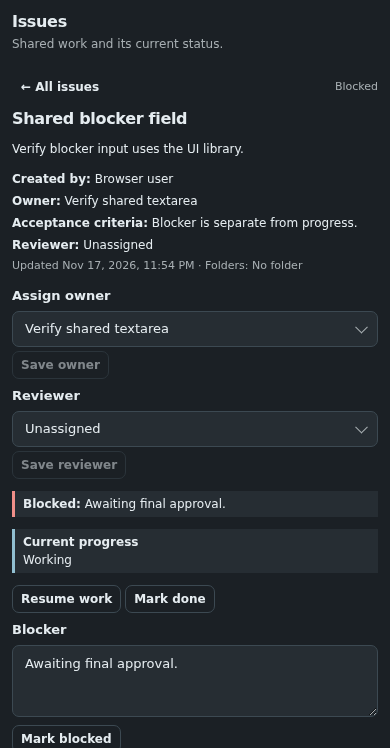
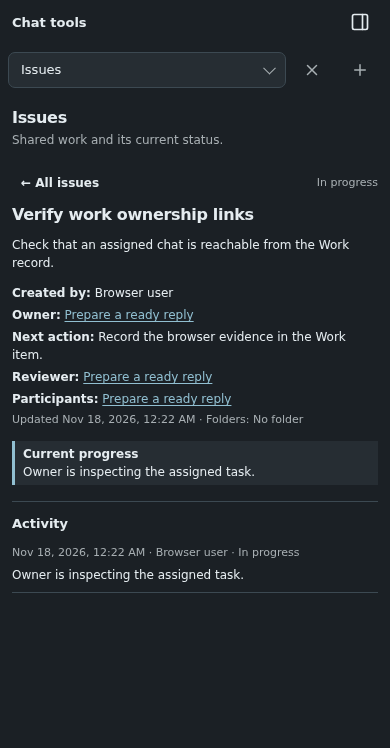
Show linked work chats and track next actions

diff --git a/web/src/components/mux-chat-coordination.ts b/web/src/components/mux-chat-coordination.ts
@@ -4,12 +4,10 @@ import { apiPath } from '../lib/base-path.js';
 import { remoteChatPath } from '../lib/remote-chat-routes.js';
 import { sdkChats } from '../lib/sdk-chats.js';
 import '../ui/button.js';
-import { MuxUISelect } from '../ui/select.js';
-import { MuxUITextArea } from '../ui/text-area.js';
 
 type WorkActor = { kind:'chat' | 'human' | 'external-tool'; sessionId?:string };
-type WorkUpdate = { id:string; at:string; actor?:WorkActor; sessionId?:string; linkedSessionId?:string; text:string; status?:string; progress?:string; outcome?:string; evidence?:string[]; ownerSessionId?:string; reviewerSessionId?:string; blockedReason?:string };
-type WorkItem = { id:string; title:string; brief:string; status:string; progress?:string; outcome?:string; createdBy:WorkActor; ownerSessionId:string; reviewerSessionId?:string; acceptanceCriteria?:string; blockedReason?:string; revision:number; sessionIds:string[]; projectIds:string[]; updatedAt:string; updates?:WorkUpdate[] };
+type WorkUpdate = { id:string; at:string; actor?:WorkActor; sessionId?:string; linkedSessionId?:string; text:string; status?:string; progress?:string; nextAction?:string; outcome?:string; evidence?:string[]; ownerSessionId?:string; reviewerSessionId?:string; blockedReason?:string };
+type WorkItem = { id:string; title:string; brief:string; status:string; progress?:string; nextAction?:string; outcome?:string; createdBy:WorkActor; ownerSessionId:string; reviewerSessionId?:string; acceptanceCriteria?:string; blockedReason?:string; revision:number; sessionIds:string[]; projectIds:string[]; updatedAt:string; updates?:WorkUpdate[] };
 
 @customElement('mux-chat-coordination')
 export class MuxChatCoordination extends LitElement {
@@ -21,10 +19,6 @@ export class MuxChatCoordination extends LitElement {
   @state() private filter: 'open' | 'all' | 'done' = 'open';
   @state() private scope: 'folder' | 'all' = 'folder';
   @state() private error = '';
-  @state() private ownerDraft = '';
-  @state() private reviewerDraft = '';
-  @state() private blockerDraft = '';
-  @state() private saving = false;
   private poll?: number;
   private loading = false;
   private refreshKey = 0;
@@ -44,13 +38,16 @@ export class MuxChatCoordination extends LitElement {
     .filters { display:flex; gap:var(--ui-space-2); margin-bottom:var(--ui-space-4); }
     .filter[pressed] { color:var(--ui-accent); }
     .list { border-top:1px solid var(--ui-border); }
-    .issue::part(button) { display:flex; align-items:flex-start; justify-content:flex-start; gap:var(--ui-space-4); width:100%; border:0; border-bottom:1px solid var(--ui-border); border-radius:0; padding:var(--ui-space-5) var(--ui-space-2); background:transparent; color:var(--ui-text); text-align:left; white-space:normal; font:inherit; }
-    .issue:hover::part(button) { background:var(--ui-surface-hover); }
+    .issue { border-bottom:1px solid var(--ui-border); padding:var(--ui-space-4) var(--ui-space-2); }
+    .issue-open::part(button) { display:flex; align-items:flex-start; justify-content:flex-start; gap:var(--ui-space-4); width:100%; border:0; border-radius:0; padding:0; background:transparent; color:var(--ui-text); text-align:left; white-space:normal; font:inherit; }
+    .issue-open:hover::part(button) { color:var(--ui-accent); }
     .issue .issue-main { flex:1; min-width:0; }
     .issue strong { display:block; font-weight:650; overflow-wrap:anywhere; }
     .summary { display:block; margin-top:var(--ui-space-1); color:var(--ui-text-muted); overflow-wrap:anywhere; }
     .meta { font-size:var(--ui-text-xs); }
     .issue .meta { display:block; margin-top:var(--ui-space-2); }
+    .chat-link { color:var(--ui-accent); text-decoration:underline; text-underline-offset:2px; }
+    .chat-link:hover { color:var(--ui-text); }
     .status-dot { flex:none; width:var(--ui-space-5); height:var(--ui-space-5); margin-top:var(--ui-space-2); border:2px solid var(--ui-border-strong); border-radius:50%; }
     .status-dot.active { border-color:var(--ui-accent); background:var(--ui-accent); }
     .status-dot.blocked { border-color:var(--ui-danger); background:var(--ui-danger); }
@@ -65,17 +62,12 @@ export class MuxChatCoordination extends LitElement {
     .timeline h3 { padding:var(--ui-space-5) 0 var(--ui-space-2); }
     .entry { border-bottom:1px solid var(--ui-border); padding:var(--ui-space-4) 0; }
     .entry p { margin-top:var(--ui-space-2); white-space:pre-wrap; overflow-wrap:anywhere; }
-    .ownership { display:grid; grid-template-columns:repeat(2,minmax(0,1fr)); gap:var(--ui-space-4); margin:var(--ui-space-5) 0; }
-    .ownership .field { min-width:0; }
-    .ownership mux-ui-button { margin-top:var(--ui-space-2); }
     .facts { display:grid; gap:var(--ui-space-2); margin:var(--ui-space-4) 0; }
     .facts p { white-space:pre-wrap; overflow-wrap:anywhere; }
     .facts strong { color:var(--ui-text); }
     .blocker { border-left:3px solid var(--ui-danger); padding:var(--ui-space-2) var(--ui-space-4); margin:var(--ui-space-5) 0; background:var(--ui-surface-raised); white-space:pre-wrap; }
-    .actions { display:flex; flex-wrap:wrap; gap:var(--ui-space-2); margin:var(--ui-space-4) 0; }
-    .blocker-input { margin-top:var(--ui-space-4); }
     .error { color:var(--ui-danger); margin:var(--ui-space-3) 0; }
-    @media(max-width:550px) { .wrap { padding:var(--ui-space-5); } .issue::part(button) { padding-inline:0; } .issue .status { display:none; } .ownership { grid-template-columns:1fr; } }
+    @media(max-width:550px) { .wrap { padding:var(--ui-space-5); } .issue { padding-inline:0; } .issue .status { display:none; } }
   `;
 
   override connectedCallback() {
@@ -108,32 +100,7 @@ export class MuxChatCoordination extends LitElement {
   }
   private openDetail(item:WorkItem) {
     this.detail = item;
-    this.ownerDraft = item.ownerSessionId || '';
-    this.reviewerDraft = item.reviewerSessionId || '';
-    this.blockerDraft = item.blockedReason || '';
     void this.refresh();
-  }
-  private async updateItem(change:Record<string,unknown>) {
-    const item = this.detail;
-    if (!item || this.saving) return;
-    this.saving = true;
-    this.error = '';
-    try {
-      const response = await fetch(this.path(`/api/sdk-work/${encodeURIComponent(item.id)}/updates`), {
-        method:'POST', headers:{'Content-Type':'application/json'},
-        body:JSON.stringify({clientRef:crypto.randomUUID(), ...change}),
-      });
-      if (!response.ok) throw new Error((await response.text()).trim() || `HTTP ${response.status}`);
-      const updated = await response.json() as WorkItem;
-      this.detail = updated;
-      this.ownerDraft = updated.ownerSessionId || '';
-      this.reviewerDraft = updated.reviewerSessionId || '';
-      this.blockerDraft = updated.blockedReason || '';
-      void this.refresh();
-    } catch (error) {
-      await this.refresh();
-      this.error = String(error);
-    } finally { this.saving = false; }
   }
   private async refresh() {
     if (!this.sessionId || this.loading) return;
@@ -155,11 +122,11 @@ export class MuxChatCoordination extends LitElement {
   }
   private date(value: string) { return new Date(value).toLocaleString(undefined, {dateStyle:'medium',timeStyle:'short'}); }
   private statusName(status: string) { return ({active:'In progress',open:'Open',blocked:'Blocked',review:'Ready for review',done:'Done',cancelled:'Cancelled'} as Record<string,string>)[status] || status; }
-  private sessionTitle(id:string) { return sdkChats.chats.find(chat => chat.id === id)?.title || id.slice(0,8); }
-  private actorName(actor?:WorkActor, legacySessionId?:string) { return actor?.kind === 'chat' && actor.sessionId ? this.sessionTitle(actor.sessionId) : actor?.kind === 'human' ? 'Browser user' : actor?.kind === 'external-tool' ? 'External tool' : legacySessionId ? this.sessionTitle(legacySessionId) : 'Unknown'; }
-  private creatorName(item:WorkItem) { return this.actorName(item.createdBy); }
-  private ownerName(item:WorkItem) { return item.ownerSessionId ? this.sessionTitle(item.ownerSessionId) : 'Unassigned'; }
-  private sessionOptions() { return [{value:'',label:'Unassigned'}, ...sdkChats.chats.filter(chat => (chat.remoteHost || '') === this.remoteHost && (!chat.archived || chat.id === this.detail?.ownerSessionId || chat.id === this.detail?.reviewerSessionId)).map(chat => ({value:chat.id,label:chat.title || chat.id.slice(0,8)}))]; }
+  private sessionTitle(id:string) { return sdkChats.chats.find(chat => chat.id === id && (chat.remoteHost || '') === this.remoteHost)?.title || id.slice(0,8); }
+  private chatLink(id:string) { return html`<a class="chat-link" href=${`#chat=${encodeURIComponent(id)}${this.remoteHost ? `&host=${encodeURIComponent(this.remoteHost)}` : ''}`} title=${`Open chat ${this.sessionTitle(id)}`}>${this.sessionTitle(id)}</a>`; }
+  private actorLabel(actor?:WorkActor, legacySessionId?:string) { return actor?.kind === 'chat' && actor.sessionId ? this.chatLink(actor.sessionId) : actor?.kind === 'human' ? 'Browser user' : actor?.kind === 'external-tool' ? 'External tool' : legacySessionId ? this.chatLink(legacySessionId) : 'Unknown'; }
+  private creatorLabel(item:WorkItem) { return this.actorLabel(item.createdBy); }
+  private ownerLabel(item:WorkItem) { return item.ownerSessionId ? this.chatLink(item.ownerSessionId) : 'Unassigned'; }
   private selectScope(scope:'folder' | 'all') {
     if (scope === this.scope) return;
     this.refreshKey++;
@@ -179,7 +146,7 @@ export class MuxChatCoordination extends LitElement {
     const visible = ordered.filter(item => this.filter === 'all' || (this.filter === 'done' ? item.status === 'done' || item.status === 'cancelled' : item.status !== 'done' && item.status !== 'cancelled'));
     return html`<div class="overview"><p>${openCount} open · ${this.work.length} total</p><div class="filters" aria-label="Issue scope"><mux-ui-button size="small" variant="quiet" toggle .pressed=${this.scope === 'folder'} @click=${() => this.selectScope('folder')}>${this.projectId ? 'This folder' : 'This chat'}</mux-ui-button><mux-ui-button size="small" variant="quiet" toggle .pressed=${this.scope === 'all'} @click=${() => this.selectScope('all')}>All issues</mux-ui-button></div></div>
       <div class="filters" aria-label="Filter issues">${(['open','all','done'] as const).map(filter => html`<mux-ui-button class="filter" size="small" variant="quiet" toggle .pressed=${this.filter === filter} @click=${() => { this.filter=filter; }}>${filter === 'open' ? 'Open' : filter === 'all' ? 'All' : 'Done'}</mux-ui-button>`)}</div>
-      ${visible.length ? html`<div class="list">${visible.map(item => html`<mux-ui-button class="issue" full-width variant="quiet" @click=${() => this.openDetail(item)}><span class="status-dot ${item.status}" aria-hidden="true"></span><span class="issue-main"><strong>${item.title}</strong><span class="summary">${item.progress || item.brief || 'No progress yet'}</span><span class="meta">Owner: ${this.ownerName(item)} · Created by ${this.creatorName(item)} · ${this.projectNames(item)}</span></span><span class="status">${this.statusName(item.status)}</span></mux-ui-button>`)}</div>` : html`<div class="empty"><strong>${this.work.length ? 'No issues in this view' : 'No issues yet'}</strong>${this.work.length ? 'Choose another filter to see them.' : 'Issues will appear here as agents record shared work.'}</div>`}`;
+      ${visible.length ? html`<div class="list">${visible.map(item => html`<div class="issue"><mux-ui-button class="issue-open" full-width variant="quiet" @click=${() => this.openDetail(item)}><span class="status-dot ${item.status}" aria-hidden="true"></span><span class="issue-main"><strong>${item.title}</strong><span class="summary">${item.nextAction || item.progress || item.brief || 'No progress yet'}</span></span><span class="status">${this.statusName(item.status)}</span></mux-ui-button><span class="meta">Owner: ${this.ownerLabel(item)} · Created by ${this.creatorLabel(item)} · ${this.projectNames(item)}</span></div>`)}</div>` : html`<div class="empty"><strong>${this.work.length ? 'No issues in this view' : 'No issues yet'}</strong>${this.work.length ? 'Choose another filter to see them.' : 'Issues will appear here as agents record shared work.'}</div>`}`;
   }
   private issueDetail() {
     const item = this.detail;
@@ -187,13 +154,10 @@ export class MuxChatCoordination extends LitElement {
     const updates = [...(item.updates || [])].reverse();
     return html`<div class="detail-head"><mux-ui-button size="small" variant="quiet" @click=${() => { this.detail=undefined; }}>← All issues</mux-ui-button><span class="status">${this.statusName(item.status)}</span></div>
       <h2>${item.title}</h2><p class="detail-lead">${item.brief || 'No description yet.'}</p>
-      <div class="facts"><p><strong>Created by:</strong> ${this.creatorName(item)}</p><p><strong>Owner:</strong> ${this.ownerName(item)}</p>${item.acceptanceCriteria ? html`<p><strong>Acceptance criteria:</strong> ${item.acceptanceCriteria}</p>` : nothing}<p><strong>Reviewer:</strong> ${item.reviewerSessionId ? this.sessionTitle(item.reviewerSessionId) : 'Unassigned'}</p><p class="meta">Updated ${this.date(item.updatedAt)} · Folders: ${this.projectNames(item)}</p></div>
-      <div class="ownership"><div class="field"><mux-ui-select label="Assign owner" .value=${this.ownerDraft} .options=${this.sessionOptions()} ?disabled=${this.saving} @change=${(event:Event) => { this.ownerDraft=(event.target as MuxUISelect).value; }}></mux-ui-select><mux-ui-button size="small" variant="secondary" ?disabled=${this.saving || this.ownerDraft === (item.ownerSessionId || '')} @click=${() => void this.updateItem({ownerSessionId:this.ownerDraft,expectedRevision:item.revision})}>Save owner</mux-ui-button></div><div class="field"><mux-ui-select label="Reviewer" .value=${this.reviewerDraft} .options=${this.sessionOptions()} ?disabled=${this.saving} @change=${(event:Event) => { this.reviewerDraft=(event.target as MuxUISelect).value; }}></mux-ui-select><mux-ui-button size="small" variant="secondary" ?disabled=${this.saving || this.reviewerDraft === (item.reviewerSessionId || '')} @click=${() => void this.updateItem({reviewerSessionId:this.reviewerDraft,expectedRevision:item.revision})}>Save reviewer</mux-ui-button></div></div>
+      <div class="facts"><p><strong>Created by:</strong> ${this.creatorLabel(item)}</p><p><strong>Owner:</strong> ${this.ownerLabel(item)}</p>${item.nextAction ? html`<p><strong>Next action:</strong> ${item.nextAction}</p>` : nothing}${item.acceptanceCriteria ? html`<p><strong>Acceptance criteria:</strong> ${item.acceptanceCriteria}</p>` : nothing}<p><strong>Reviewer:</strong> ${item.reviewerSessionId ? this.chatLink(item.reviewerSessionId) : 'Unassigned'}</p>${item.sessionIds?.length ? html`<p><strong>Participants:</strong> ${item.sessionIds.map((id, index) => html`${index ? ', ' : ''}${this.chatLink(id)}`)}</p>` : nothing}<p class="meta">Updated ${this.date(item.updatedAt)} · Folders: ${this.projectNames(item)}</p></div>
       ${item.status === 'blocked' ? html`<div class="blocker"><strong>Blocked:</strong> ${item.blockedReason}</div>` : nothing}
       <div class="progress"><strong>Current progress</strong><p>${item.progress || 'No progress recorded yet.'}</p>${item.outcome ? html`<p><strong>Outcome:</strong> ${item.outcome}</p>` : nothing}</div>
-      <div class="actions">${item.status === 'blocked' ? html`<mux-ui-button size="small" variant="secondary" ?disabled=${this.saving} @click=${() => void this.updateItem({status:'active'})}>Resume work</mux-ui-button>` : item.status === 'open' || item.status === 'active' ? html`<mux-ui-button size="small" variant="secondary" ?disabled=${this.saving} @click=${() => void this.updateItem({status:'review'})}>Ready for review</mux-ui-button>` : nothing}${item.status !== 'done' && item.status !== 'cancelled' ? html`<mux-ui-button size="small" variant="secondary" ?disabled=${this.saving} @click=${() => void this.updateItem({status:'done'})}>Mark done</mux-ui-button>` : nothing}</div>
-      ${item.status !== 'done' && item.status !== 'cancelled' ? html`<mux-ui-text-area class="blocker-input" label="Blocker" .rows=${2} .value=${this.blockerDraft} ?disabled=${this.saving} @input=${(event:Event) => { this.blockerDraft=(event.target as MuxUITextArea).value; }} placeholder="What needs to happen before work can continue?"></mux-ui-text-area><div class="actions"><mux-ui-button size="small" variant="secondary" ?disabled=${this.saving || !this.blockerDraft.trim()} @click=${() => void this.updateItem({status:'blocked',blockedReason:this.blockerDraft.trim()})}>Mark blocked</mux-ui-button></div>` : nothing}
-      <section class="timeline"><h3>Activity</h3>${updates.length ? updates.map(update => html`<div class="entry"><div class="meta">${this.date(update.at)} · ${this.actorName(update.actor, update.sessionId)}${update.status ? ` · ${this.statusName(update.status)}` : ''}</div><p>${update.text || update.progress || update.outcome || (update.ownerSessionId !== undefined ? `Owner: ${update.ownerSessionId ? this.sessionTitle(update.ownerSessionId) : 'Unassigned'}` : update.reviewerSessionId !== undefined ? `Reviewer: ${update.reviewerSessionId ? this.sessionTitle(update.reviewerSessionId) : 'Unassigned'}` : update.blockedReason ? update.blockedReason : update.linkedSessionId ? `Linked ${this.sessionTitle(update.linkedSessionId)}` : update.status ? this.statusName(update.status) : 'Update recorded')}</p>${update.evidence?.length ? html`<p class="meta">Evidence: ${update.evidence.join(', ')}</p>` : nothing}</div>`) : html`<div class="empty">No activity yet.</div>`}</section>`;
+      <section class="timeline"><h3>Activity</h3>${updates.length ? updates.map(update => html`<div class="entry"><div class="meta">${this.date(update.at)} · ${this.actorLabel(update.actor, update.sessionId)}${update.status ? ` · ${this.statusName(update.status)}` : ''}</div><p>${update.text || update.progress || update.outcome || (update.ownerSessionId !== undefined ? html`Owner: ${update.ownerSessionId ? this.chatLink(update.ownerSessionId) : 'Unassigned'}` : update.reviewerSessionId !== undefined ? html`Reviewer: ${update.reviewerSessionId ? this.chatLink(update.reviewerSessionId) : 'Unassigned'}` : update.nextAction !== undefined ? `Next action: ${update.nextAction || 'Cleared'}` : update.blockedReason ? update.blockedReason : update.linkedSessionId ? html`Linked ${this.chatLink(update.linkedSessionId)}` : update.status ? this.statusName(update.status) : 'Update recorded')}</p>${update.evidence?.length ? html`<p class="meta">Evidence: ${update.evidence.join(', ')}</p>` : nothing}</div>`) : html`<div class="empty">No activity yet.</div>`}</section>`;
   }
   override render() {
     return html`<div class="wrap"><header><h2>Issues</h2><p class="intro">Shared work and its current status.</p></header>${this.error ? html`<p class="error" role="alert">${this.error}</p>` : nothing}${this.detail ? this.issueDetail() : this.issueList()}</div>`;

diff --git a/internal/server/sdk_work.go b/internal/server/sdk_work.go
@@ -24,6 +24,8 @@ type sdkWorkItem struct {
 	ClientRef         string          `json:"clientRef"`
 	Title             string          `json:"title"`
 	Brief             string          `json:"brief"`
+	NextAction        string          `json:"nextAction,omitempty"`
+	CreateNextAction  string          `json:"createNextAction,omitempty"`
 	Status            string          `json:"status"`
 	CreatedBy         sdkWorkActor    `json:"createdBy"`
 	OwnerSessionID    string          `json:"ownerSessionId"`
@@ -53,6 +55,7 @@ type sdkWorkUpdate struct {
 	Text              string       `json:"text"`
 	Status            string       `json:"status,omitempty"`
 	Progress          string       `json:"progress,omitempty"`
+	NextAction        *string      `json:"nextAction,omitempty"`
 	Outcome           string       `json:"outcome,omitempty"`
 	Evidence          []string     `json:"evidence,omitempty"`
 	LinkedSessionID   string       `json:"linkedSessionId,omitempty"`
@@ -193,13 +196,14 @@ func (s *Server) handleSDKWork(w http.ResponseWriter, r *http.Request) {
 		ClientRef         string    `json:"clientRef"`
 		Title             string    `json:"title"`
 		Brief             string    `json:"brief"`
+		NextAction        string    `json:"nextAction"`
 		OwnerSessionID    string    `json:"ownerSessionId"`
 		Acceptance        string    `json:"acceptanceCriteria"`
 		ReviewerSessionID string    `json:"reviewerSessionId"`
 		SessionIDs        []string  `json:"sessionIds"`
 		ProjectIDs        *[]string `json:"projectIds"`
 	}
-	if json.NewDecoder(io.LimitReader(r.Body, 64<<10)).Decode(&req) != nil || strings.TrimSpace(req.ClientRef) == "" || len(req.ClientRef) > 256 || strings.TrimSpace(req.Title) == "" || len(req.Title) > 200 || len(req.Brief) > 32<<10 || len(req.Acceptance) > 16<<10 || len(req.SessionIDs) > 32 || (req.ProjectIDs != nil && len(*req.ProjectIDs) > 32) {
+	if json.NewDecoder(io.LimitReader(r.Body, 64<<10)).Decode(&req) != nil || strings.TrimSpace(req.ClientRef) == "" || len(req.ClientRef) > 256 || strings.TrimSpace(req.Title) == "" || len(req.Title) > 200 || len(req.Brief) > 32<<10 || len(req.NextAction) > 4096 || len(req.Acceptance) > 16<<10 || len(req.SessionIDs) > 32 || (req.ProjectIDs != nil && len(*req.ProjectIDs) > 32) {
 		http.Error(w, "clientRef and title required", 400)
 		return
 	}
@@ -256,7 +260,11 @@ func (s *Server) handleSDKWork(w http.ResponseWriter, r *http.Request) {
 			if item.CreatedBy.Kind == "" {
 				createReviewer = item.ReviewerSessionID
 			}
-			if item.Title != req.Title || item.Brief != req.Brief || item.Acceptance != req.Acceptance || createReviewer != req.ReviewerSessionID || createOwner != req.OwnerSessionID || !slices.Equal(createdWith, req.SessionIDs) || !slices.Equal(createdProjects, projectIDs) {
+			createNextAction := item.CreateNextAction
+			if item.CreatedBy.Kind == "" {
+				createNextAction = item.NextAction
+			}
+			if item.Title != req.Title || item.Brief != req.Brief || createNextAction != strings.TrimSpace(req.NextAction) || item.Acceptance != req.Acceptance || createReviewer != req.ReviewerSessionID || createOwner != req.OwnerSessionID || !slices.Equal(createdWith, req.SessionIDs) || !slices.Equal(createdProjects, projectIDs) {
 				h.mu.Unlock()
 				http.Error(w, "clientRef already used for different work", 409)
 				return
@@ -270,7 +278,7 @@ func (s *Server) handleSDKWork(w http.ResponseWriter, r *http.Request) {
 		}
 	}
 	now := time.Now().UTC()
-	item := &sdkWorkItem{ID: sdkID(), ClientRef: req.ClientRef, Title: req.Title, Brief: req.Brief,
+	item := &sdkWorkItem{ID: sdkID(), ClientRef: req.ClientRef, Title: req.Title, Brief: req.Brief, NextAction: strings.TrimSpace(req.NextAction), CreateNextAction: strings.TrimSpace(req.NextAction),
 		Status: "open", CreatedBy: creator, OwnerSessionID: req.OwnerSessionID, CreateOwnerID: req.OwnerSessionID, Acceptance: req.Acceptance, ReviewerSessionID: req.ReviewerSessionID, CreateReviewerID: req.ReviewerSessionID, ProjectIDs: projectIDs, CreateProjectIDs: slices.Clone(projectIDs), SessionIDs: req.SessionIDs,
 		CreateSessionIDs: append([]string{}, req.SessionIDs...),
 		Revision:         1, CreatedAt: now, UpdatedAt: now, Updates: []sdkWorkUpdate{}}
@@ -311,6 +319,7 @@ func (s *Server) handleSDKWorkUpdate(w http.ResponseWriter, r *http.Request) {
 		Text              string    `json:"text"`
 		Status            string    `json:"status"`
 		Progress          string    `json:"progress"`
+		NextAction        *string   `json:"nextAction"`
 		Outcome           string    `json:"outcome"`
 		Evidence          []string  `json:"evidence"`
 		LinkedSessionID   string    `json:"linkedSessionId"`
@@ -320,7 +329,7 @@ func (s *Server) handleSDKWorkUpdate(w http.ResponseWriter, r *http.Request) {
 		BlockedReason     *string   `json:"blockedReason"`
 		ExpectedRevision  *int      `json:"expectedRevision"`
 	}
-	if json.NewDecoder(io.LimitReader(r.Body, 64<<10)).Decode(&req) != nil || strings.TrimSpace(req.ClientRef) == "" || len(req.ClientRef) > 256 || len(req.Text) > 16<<10 || len(req.Progress) > 4096 || len(req.Outcome) > 16<<10 || len(req.Evidence) > 20 || (req.ProjectIDs != nil && len(*req.ProjectIDs) > 32) || (req.Status != "" && !validWorkStatus(req.Status)) || (req.OwnerSessionID != nil && len(*req.OwnerSessionID) > 256) || (req.ReviewerSessionID != nil && len(*req.ReviewerSessionID) > 256) || (req.BlockedReason != nil && len(*req.BlockedReason) > 4096) || (req.Text == "" && req.Status == "" && req.Progress == "" && req.Outcome == "" && req.LinkedSessionID == "" && req.ProjectIDs == nil && req.OwnerSessionID == nil && req.ReviewerSessionID == nil && req.BlockedReason == nil) {
+	if json.NewDecoder(io.LimitReader(r.Body, 64<<10)).Decode(&req) != nil || strings.TrimSpace(req.ClientRef) == "" || len(req.ClientRef) > 256 || len(req.Text) > 16<<10 || len(req.Progress) > 4096 || (req.NextAction != nil && len(*req.NextAction) > 4096) || len(req.Outcome) > 16<<10 || len(req.Evidence) > 20 || (req.ProjectIDs != nil && len(*req.ProjectIDs) > 32) || (req.Status != "" && !validWorkStatus(req.Status)) || (req.OwnerSessionID != nil && len(*req.OwnerSessionID) > 256) || (req.ReviewerSessionID != nil && len(*req.ReviewerSessionID) > 256) || (req.BlockedReason != nil && len(*req.BlockedReason) > 4096) || (req.Text == "" && req.Status == "" && req.Progress == "" && req.NextAction == nil && req.Outcome == "" && req.LinkedSessionID == "" && req.ProjectIDs == nil && req.OwnerSessionID == nil && req.ReviewerSessionID == nil && req.BlockedReason == nil) {
 		http.Error(w, "clientRef and a valid work update required", 400)
 		return
 	}
@@ -385,7 +394,7 @@ func (s *Server) handleSDKWorkUpdate(w http.ResponseWriter, r *http.Request) {
 	}
 	for _, prior := range item.Updates {
 		if prior.ClientRef == req.ClientRef {
-			if (prior.Actor.Kind != "" && prior.Actor != actor) || prior.SessionID != req.SessionID || prior.Text != req.Text || prior.Status != req.Status || prior.Progress != req.Progress || prior.Outcome != req.Outcome || prior.LinkedSessionID != req.LinkedSessionID || !slices.Equal(prior.Evidence, req.Evidence) || (prior.ProjectIDs == nil) != (req.ProjectIDs == nil) || (prior.ProjectIDs != nil && !slices.Equal(*prior.ProjectIDs, *req.ProjectIDs)) || (prior.OwnerSessionID == nil) != (req.OwnerSessionID == nil) || (prior.OwnerSessionID != nil && *prior.OwnerSessionID != *req.OwnerSessionID) || (prior.ReviewerSessionID == nil) != (req.ReviewerSessionID == nil) || (prior.ReviewerSessionID != nil && *prior.ReviewerSessionID != *req.ReviewerSessionID) || (prior.BlockedReason == nil) != (req.BlockedReason == nil) || (prior.BlockedReason != nil && *prior.BlockedReason != *req.BlockedReason) || (prior.ExpectedRevision == nil) != (req.ExpectedRevision == nil) || (prior.ExpectedRevision != nil && *prior.ExpectedRevision != *req.ExpectedRevision) {
+			if (prior.Actor.Kind != "" && prior.Actor != actor) || prior.SessionID != req.SessionID || prior.Text != req.Text || prior.Status != req.Status || prior.Progress != req.Progress || (prior.NextAction == nil) != (req.NextAction == nil) || (prior.NextAction != nil && *prior.NextAction != *req.NextAction) || prior.Outcome != req.Outcome || prior.LinkedSessionID != req.LinkedSessionID || !slices.Equal(prior.Evidence, req.Evidence) || (prior.ProjectIDs == nil) != (req.ProjectIDs == nil) || (prior.ProjectIDs != nil && !slices.Equal(*prior.ProjectIDs, *req.ProjectIDs)) || (prior.OwnerSessionID == nil) != (req.OwnerSessionID == nil) || (prior.OwnerSessionID != nil && *prior.OwnerSessionID != *req.OwnerSessionID) || (prior.ReviewerSessionID == nil) != (req.ReviewerSessionID == nil) || (prior.ReviewerSessionID != nil && *prior.ReviewerSessionID != *req.ReviewerSessionID) || (prior.BlockedReason == nil) != (req.BlockedReason == nil) || (prior.BlockedReason != nil && *prior.BlockedReason != *req.BlockedReason) || (prior.ExpectedRevision == nil) != (req.ExpectedRevision == nil) || (prior.ExpectedRevision != nil && *prior.ExpectedRevision != *req.ExpectedRevision) {
 				h.mu.Unlock()
 				http.Error(w, "clientRef already used for different update", 409)
 				return
@@ -412,7 +421,7 @@ func (s *Server) handleSDKWorkUpdate(w http.ResponseWriter, r *http.Request) {
 	copy.CreatedBy = h.workCreatorLocked(item)
 	copy.ProjectIDs = slices.Clone(h.workProjectIDsLocked(item))
 	copy.Updates = append(slices.Clone(item.Updates), sdkWorkUpdate{ID: sdkID(), ClientRef: req.ClientRef, At: time.Now().UTC(), Actor: actor, SessionID: req.SessionID,
-		Text: req.Text, Status: req.Status, Progress: req.Progress, Outcome: req.Outcome, Evidence: req.Evidence, LinkedSessionID: req.LinkedSessionID, ProjectIDs: req.ProjectIDs, OwnerSessionID: req.OwnerSessionID, ReviewerSessionID: req.ReviewerSessionID, BlockedReason: req.BlockedReason, ExpectedRevision: req.ExpectedRevision})
+		Text: req.Text, Status: req.Status, Progress: req.Progress, NextAction: req.NextAction, Outcome: req.Outcome, Evidence: req.Evidence, LinkedSessionID: req.LinkedSessionID, ProjectIDs: req.ProjectIDs, OwnerSessionID: req.OwnerSessionID, ReviewerSessionID: req.ReviewerSessionID, BlockedReason: req.BlockedReason, ExpectedRevision: req.ExpectedRevision})
 	previousOwner := copy.OwnerSessionID
 	if req.OwnerSessionID != nil {
 		copy.OwnerSessionID = *req.OwnerSessionID
@@ -432,12 +441,18 @@ func (s *Server) handleSDKWorkUpdate(w http.ResponseWriter, r *http.Request) {
 	}
 	if req.Status != "" {
 		copy.Status = req.Status
+		if (req.Status == "done" || req.Status == "cancelled") && req.NextAction == nil {
+			copy.NextAction = ""
+		}
 		if req.Status != "blocked" && req.BlockedReason == nil {
 			copy.BlockedReason = ""
 		}
 	}
 	if req.BlockedReason != nil {
 		copy.BlockedReason = strings.TrimSpace(*req.BlockedReason)
+	}
+	if req.NextAction != nil {
+		copy.NextAction = strings.TrimSpace(*req.NextAction)
 	}
 	if copy.Status == "blocked" && copy.BlockedReason == "" {
 		if req.Text != "" {

diff --git a/internal/mcp/tools_work.go b/internal/mcp/tools_work.go
@@ -11,8 +11,8 @@ func registerWorkTools(srv *Server) {
 	pt := newPublishTools()
 	stringProp := map[string]any{"type": "string"}
 	stringsProp := map[string]any{"type": "array", "items": stringProp}
-	srv.Register("create_work_item", "Create a durable work record. Muxterm records who created it separately from its assignable owner_session_id. Omit owner_session_id to leave work unassigned; project_ids defaults to the owner's folder when present. acceptance_criteria says how completion will be judged. This does not start an agent or alter a Chat Goal. client_ref makes retries idempotent.",
-		map[string]any{"type": "object", "properties": withMachine(map[string]any{"client_ref": stringProp, "title": stringProp, "brief": stringProp, "owner_session_id": stringProp, "acceptance_criteria": stringProp, "reviewer_session_id": stringProp, "session_ids": stringsProp, "project_ids": stringsProp}), "required": []string{"client_ref", "title", "brief"}},
+	srv.Register("create_work_item", "Create a durable work record. Muxterm records who created it separately from its assignable owner_session_id. Omit owner_session_id to leave work unassigned; project_ids defaults to the owner's folder when present. next_action is the concrete next step; acceptance_criteria says how completion will be judged. Assignment records ownership but does not wake an idle chat: send_chat_message explicitly to kick off its turn. This does not alter a Chat Goal. client_ref makes retries idempotent.",
+		map[string]any{"type": "object", "properties": withMachine(map[string]any{"client_ref": stringProp, "title": stringProp, "brief": stringProp, "next_action": stringProp, "owner_session_id": stringProp, "acceptance_criteria": stringProp, "reviewer_session_id": stringProp, "session_ids": stringsProp, "project_ids": stringsProp}), "required": []string{"client_ref", "title", "brief"}},
 		func(args map[string]any) (string, error) {
 			ref, err := argString(args, "client_ref")
 			if err != nil {
@@ -23,6 +23,10 @@ func registerWorkTools(srv *Server) {
 				return "", err
 			}
 			brief, err := argString(args, "brief")
+			if err != nil {
+				return "", err
+			}
+			nextAction, _, err := argStringOptional(args, "next_action")
 			if err != nil {
 				return "", err
 			}
@@ -42,7 +46,7 @@ func registerWorkTools(srv *Server) {
 			if err != nil {
 				return "", err
 			}
-			bodyMap := map[string]any{"clientRef": ref, "title": title, "brief": brief, "ownerSessionId": owner, "acceptanceCriteria": acceptance, "reviewerSessionId": reviewer, "sessionIds": participants}
+			bodyMap := map[string]any{"clientRef": ref, "title": title, "brief": brief, "nextAction": nextAction, "ownerSessionId": owner, "acceptanceCriteria": acceptance, "reviewerSessionId": reviewer, "sessionIds": participants}
 			if projects, err := argStringSlice(args, "project_ids"); err != nil {
 				return "", err
 			} else if projects != nil {
@@ -78,7 +82,7 @@ func registerWorkTools(srv *Server) {
 			result, err := pt.chatRequest(args, http.MethodGet, path, nil)
 			return string(result), err
 		})
-	srv.Register("get_work_item", "Read a durable work record with creator, current owner, acceptance criteria, reviewer, blocker, progress, outcome, evidence references, revision, and update history.",
+	srv.Register("get_work_item", "Read a durable work record with creator, current owner, next action, acceptance criteria, reviewer, blocker, progress, outcome, evidence references, revision, and update history.",
 		map[string]any{"type": "object", "properties": withMachine(map[string]any{"work_id": stringProp}), "required": []string{"work_id"}},
 		func(args map[string]any) (string, error) {
 			id, err := argString(args, "work_id")
@@ -88,8 +92,8 @@ func registerWorkTools(srv *Server) {
 			result, err := pt.chatRequest(args, http.MethodGet, "/api/sdk-work/"+url.PathEscape(id), nil)
 			return string(result), err
 		})
-	srv.Register("update_work_item", "Append an idempotent progress update or change status, owner, reviewer, blocker, participants, or folder tags. owner_session_id is the current assignee; pass an empty string to unassign. Assignment changes require expected_revision from get_work_item so competing claims cannot silently overwrite each other. A blocked item needs blocked_reason or text. status=review marks evidence ready for its reviewer. This never controls a Chat Goal.",
-		map[string]any{"type": "object", "properties": withMachine(map[string]any{"work_id": stringProp, "client_ref": stringProp, "session_id": stringProp, "linked_session_id": stringProp, "text": stringProp, "status": map[string]any{"type": "string", "enum": []string{"open", "active", "blocked", "review", "done", "cancelled"}}, "progress": stringProp, "outcome": stringProp, "evidence": stringsProp, "project_ids": stringsProp, "owner_session_id": stringProp, "reviewer_session_id": stringProp, "blocked_reason": stringProp, "expected_revision": map[string]any{"type": "integer", "minimum": 1}}), "required": []string{"work_id", "client_ref"}},
+	srv.Register("update_work_item", "Append an idempotent progress update or change status, next action, owner, reviewer, blocker, participants, or folder tags. owner_session_id is the current assignee; pass an empty string to unassign. Assignment changes require expected_revision from get_work_item so competing claims cannot silently overwrite each other. An unassigned item can be claimed by the calling chat for itself. A blocked item needs blocked_reason or text. status=review marks evidence ready for its reviewer. Assignment does not wake an idle chat; send_chat_message explicitly for that. This never controls a Chat Goal.",
+		map[string]any{"type": "object", "properties": withMachine(map[string]any{"work_id": stringProp, "client_ref": stringProp, "session_id": stringProp, "linked_session_id": stringProp, "text": stringProp, "status": map[string]any{"type": "string", "enum": []string{"open", "active", "blocked", "review", "done", "cancelled"}}, "progress": stringProp, "next_action": stringProp, "outcome": stringProp, "evidence": stringsProp, "project_ids": stringsProp, "owner_session_id": stringProp, "reviewer_session_id": stringProp, "blocked_reason": stringProp, "expected_revision": map[string]any{"type": "integer", "minimum": 1}}), "required": []string{"work_id", "client_ref"}},
 		func(args map[string]any) (string, error) {
 			id, err := argString(args, "work_id")
 			if err != nil {
@@ -100,7 +104,7 @@ func registerWorkTools(srv *Server) {
 				return "", err
 			}
 			bodyMap := map[string]any{"clientRef": ref}
-			for _, key := range []struct{ arg, json string }{{"session_id", "sessionId"}, {"linked_session_id", "linkedSessionId"}, {"text", "text"}, {"status", "status"}, {"progress", "progress"}, {"outcome", "outcome"}, {"owner_session_id", "ownerSessionId"}, {"reviewer_session_id", "reviewerSessionId"}, {"blocked_reason", "blockedReason"}} {
+			for _, key := range []struct{ arg, json string }{{"session_id", "sessionId"}, {"linked_session_id", "linkedSessionId"}, {"text", "text"}, {"status", "status"}, {"progress", "progress"}, {"next_action", "nextAction"}, {"outcome", "outcome"}, {"owner_session_id", "ownerSessionId"}, {"reviewer_session_id", "reviewerSessionId"}, {"blocked_reason", "blockedReason"}} {
 				if value, present, err := argStringOptional(args, key.arg); err != nil {
 					return "", err
 				} else if present {

diff --git a/docs/guides/work-ledger.md b/docs/guides/work-ledger.md
@@ -16,7 +16,9 @@ that provenance is written into the record on its first update.
 unassigned work. `reviewerSessionId` is an optional chat expected to inspect the
 result. Linked `sessionIds` remain participants; reassignment does not erase
 the previous owner's history. The Issues list shows creator and current owner
-separately, and the detail view can reassign the owner or reviewer.
+separately; the detail view shows the record and its activity. Every chat shown
+in the Issues view links to that chat. Create and update work through the MCP
+tools or API. The Issues UI is read-only.
 
 Assignment changes require `expected_revision` from `get_work_item` (or
 `expectedRevision` over HTTP). The server rejects a stale revision with 409,
@@ -29,7 +31,9 @@ record instead of appending it twice.
 ## Work state
 
 The record holds its brief, optional `acceptanceCriteria`, current progress,
-outcome, reviewer, and `blockedReason`. Its status is `open`, `active`,
+`nextAction`, outcome, reviewer, and `blockedReason`. `nextAction` names the next
+concrete step and can be changed or cleared with `next_action` in
+`update_work_item`. Its status is `open`, `active`,
 `blocked`, `review`, `done`, or `cancelled`. A blocked item requires a reason;
 leaving blocked clears the reason. `review` means the work is ready for its
 reviewer. Updates carry evidence references in the activity history.
@@ -39,3 +43,17 @@ written to the owner's chat event stream, where an explicit `work` topic
 subscription may observe it. These events do not become ordinary messages in
 the chat transcript. An unassigned item's record remains discoverable in the
 Issues list without selecting an arbitrary chat as its notification target.
+
+## Assign, claim, and start work
+
+An active chat can find unassigned work with `list_work_items`, read one with
+`get_work_item`, then claim it by calling `update_work_item` with its own
+`owner_session_id` and the returned `expected_revision`. It can proceed in the
+same turn. If another claimant got there first, the server returns 409; read
+the record again before deciding what to do.
+
+For an idle chat, create or assign the item to its chat ID, then call
+`send_chat_message` once with the Work ID and next action. Assignment is a
+durable ownership change; that explicit message starts the chat turn. A chat
+that claims work while already running needs no extra kickoff message. Neither
+path starts a Chat Goal.
